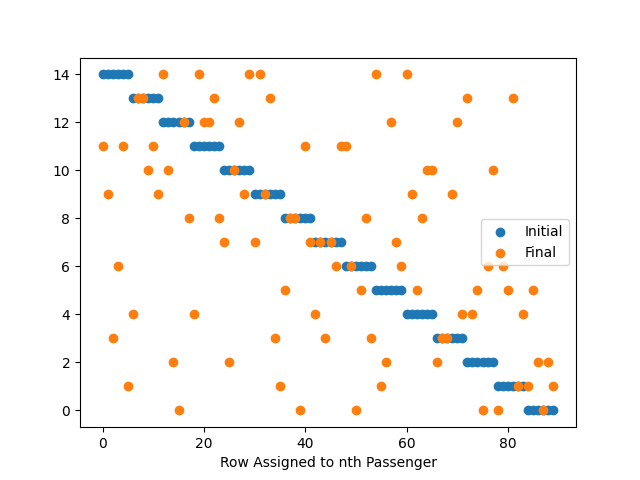
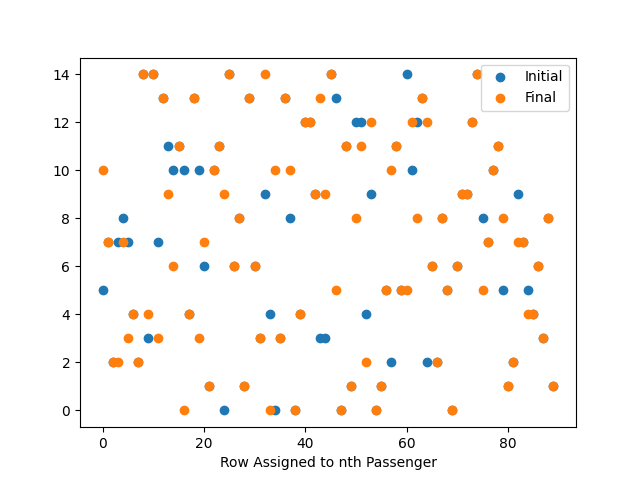
Done refactoring

diff --git a/genetic.py b/genetic.py
@@ -8,9 +8,8 @@ from tqdm import tqdm
 import statistics
 import matplotlib.pyplot as plt
 
-# runs a tournament on the supplied population that will output the given number of survivor
-# a tournament is a random pairing of two citizens from the population, and the one with the lowest score (best seating)
-# is returned
+# runs a tournament on the supplied population that will output the given number of survivors
+# a tournament is a random pairing of two citizens from the population, and the one with the lowest score (best seating) is returned
 def tournament_selection(population, num_survivors):
     survivors = []
 
@@ -22,21 +21,27 @@ def tournament_selection(population, num_survivors):
 
     return survivors
 
-min_scores = []
-avg_scores = []
-
 # runs genetic algorithm, returns the initial efficient solution among the random population
-# and the final, most efficient solution among the random population
+# AND the final, most efficient solution among the random population as a tuple.
+# Generates and saves plot of scores over generations.
 def genetic(generations, rows, cols, population_size, num_to_replace, num_to_mutate):
+    # used to collect data on generation scores that will be plotted later
+    min_scores = []
+    avg_scores = []
+
+    # a MASTER LIST of passengers that will be distributed to each citizen - this list should not be mutated
+    # to ensure that all citizens have the same passengers (same delay probabilities!) that can
+    # be mutated individually
     passenger_master_list = []
+
+    # list of all of the citizens in the population
     population = []
 
-    # builds a master list of passengers - this should NOT be mutated after creation :)
+    # builds a master list of passengers - again, this should NOT be mutated after creation :)
     for row in range(rows):
         for col in range(cols * 2):
             passenger_master_list.insert(0, Person(random.uniform(0, 0.35), (row, col)))
 
-    population = []
 
     # builds X simulations with same set of passengers, airplane dimensions, etc. but random orderings
     # (from citizen to citizen) to compare, battle, and let the best ordering win out!
@@ -44,6 +49,7 @@ def genetic(generations, rows, cols, population_size, num_to_replace, num_to_mut
     for i in tqdm(range(population_size)):
         population.append(Citizen(rows, cols, deepcopy(passenger_master_list)))
         # update over generations
+
 
     # EXTRACT THE INTIAL MINIMUM FROM THE RANDOMLY GENERATED POPULATION
     min_score = 9999
@@ -54,25 +60,28 @@ def genetic(generations, rows, cols, population_size, num_to_replace, num_to_mut
             min_score = citizen.score
             initial_min_score_citizen = citizen
 
+    # Runs natural selection/evolution for number of generations
     for generation in tqdm(range(generations)):
         print("Running Tournaments...")
-        # perform tournaments - challenge each member of the population to "survive"
+        # 1. Perform tournaments until we have popsize - numreplace "winners" or "survivors"
         population = tournament_selection(population, population_size - num_to_replace)
 
-        # mutate some of the surviving members of the population
+        # 2. Mutate number of citizens in surviving population (post-tournaments)
         print("Running Mutation...")
         for i in range(num_to_mutate):
             mutate_index = random.randint(0, len(population) - 1)
             population[mutate_index].mutate(rows)
 
         print("Running Crossovers...")
-        # some of the fit survivors will reproduce, create offspring similar to them
+        # 3. numreplace of the the fit survivors will reproduce, create offspring similar to them
+        # Population size is consistent from generation to generation
         for i in range(num_to_replace):
             parent1 = population[random.randint(0, len(population) - 1)]
             parent2 = population[random.randint(0, len(population) - 1)]
 
             population.append(parent1.reproduce(parent2, deepcopy(passenger_master_list)))
 
+        # 4. Score all of the citizens, use this information to build list for plots later.
         scores = []
 
         print("Final Scoring...")
@@ -84,6 +93,8 @@ def genetic(generations, rows, cols, population_size, num_to_replace, num_to_mut
         min_scores.append(min(scores))
         avg_scores.append(statistics.mean(scores))
         
+
+    # Plot score over generations
     plt.ylabel("Generation Score")
     plt.xlabel("Generation")
     x = range(1, generations + 1)
@@ -92,6 +103,8 @@ def genetic(generations, rows, cols, population_size, num_to_replace, num_to_mut
     plt.legend()
     plt.savefig("ScoreGraph.png")
 
+
+    # get the most efficient citizen among final population
     min_score = 9999
     final_min_score_citizen = None
 
@@ -103,8 +116,10 @@ def genetic(generations, rows, cols, population_size, num_to_replace, num_to_mut
     return (initial_min_score_citizen, final_min_score_citizen)
 
 # GENETIC FUNC ARGS: generations, rows, cols, pop_size, num to replace, num to mutate, num iterations
-initial, final = genetic(50, 15, 3, 100, 6, 20)
+initial, final = genetic(10, 15, 3, 100, 6, 20)
 
+
+## CODE FOR PLOTTING DATA ABOUT THE INTIAL/FINAL CITIZENS OUTPUT BY GENETIC ##
 plt.clf()
 x = range(len(initial.specific_ordering))
 
